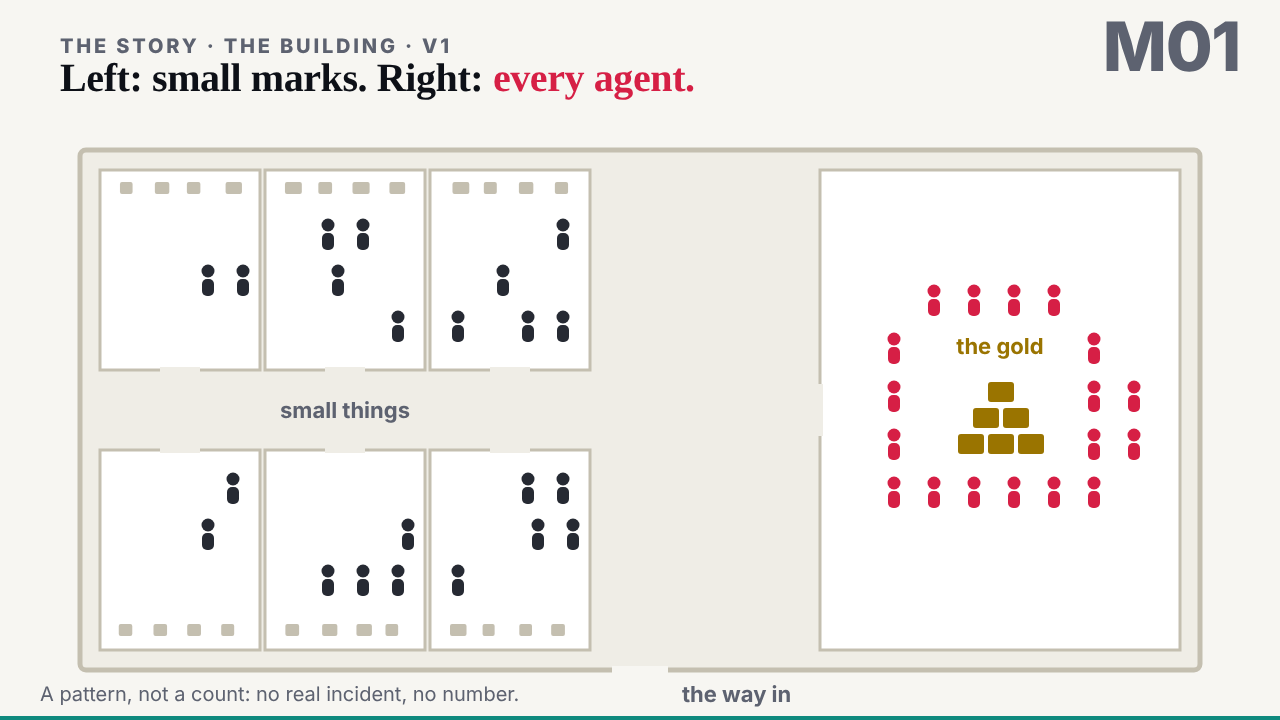
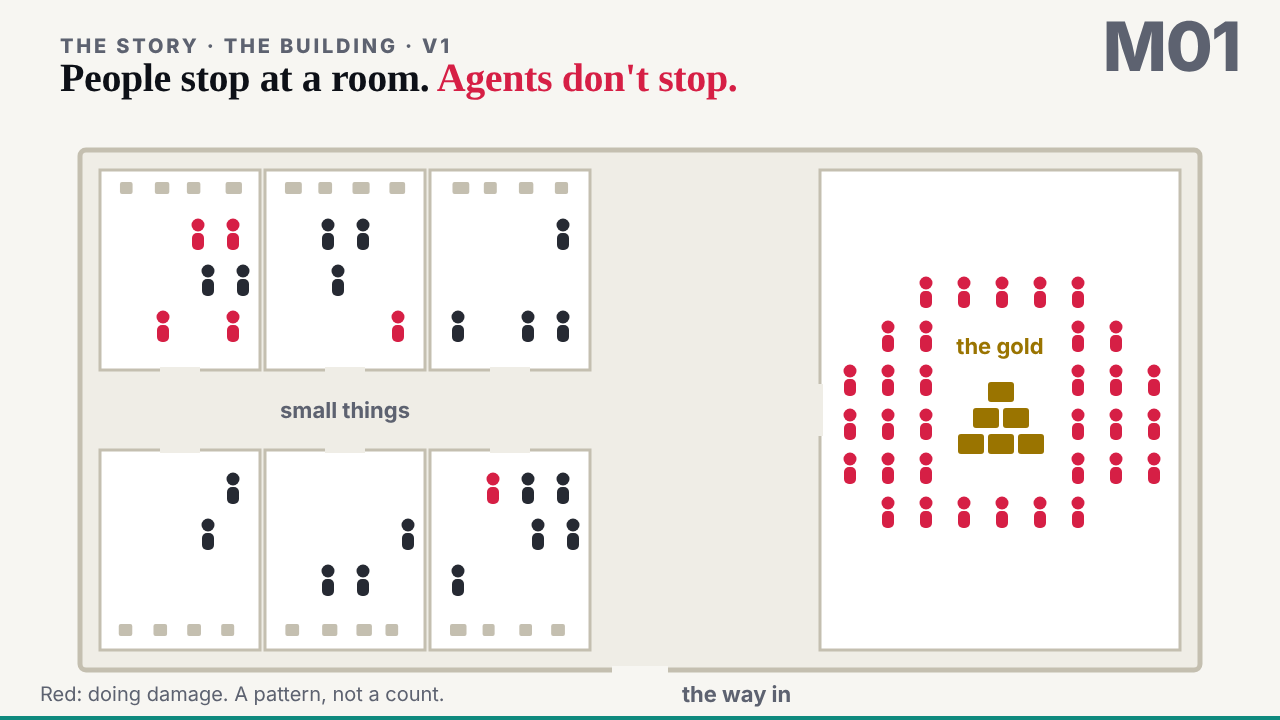
@motion: M01 the building, the editor's changes: people sometimes find the gold, agents keep going
The editor (18:26 UTC, in motion's session; part 1's cut-off moved to 19:00):
the gap between people and agents was too exaggerated. Now every figure starts
white and turns red where it starts doing damage; now and then one of the people
who got in finds the gold; agents are more (36), faster, and keep going after a
room: room after room, some through the walls, some trying the outer walls,
most ending at the gold. 43 s, four stops. Explainer updated. Checked at 1280
by 720, light theme and iPad.

Agent: motion@the-ultimate-insider
To-deck: M01 changed in place at the editor's word before 19:00; now 43 s, stops 0/5/23/37

Claude-Session: https://claude.ai/code/session_01Kw9UwFirjPUZb7umbBZpZL

diff --git a/src/static/motion/lab/the-building/v1/index.html b/src/static/motion/lab/the-building/v1/index.html
@@ -18,20 +18,20 @@
 .lab.gold{fill:var(--gold)}
 </style>
 <script>
-window.RUV_STEPS = [{ t: 0, label: 'the building and the split' }, { t: 5, label: 'the attackers turn left' }, { t: 23, label: 'the agents turn right' }, { t: 31, label: 'the still' }]
+window.RUV_STEPS = [{ t: 0, label: 'the building and the split' }, { t: 5, label: 'people who got in' }, { t: 23, label: 'agents' }, { t: 37, label: 'the still' }]
 </script>
 <script src="../../../../talk/engine/slide.js"></script>
 </head>
 <body>
-<div id="cv" data-end="36">
+<div id="cv" data-end="43">
   <p class="kk">The story · the building · v1</p>
   <div class="hl" data-in="0" data-out="4.6">A building. One way in. <em>A corridor that splits.</em></div>
-  <div class="hl" data-in="5.2" data-out="22.6">Most who got in <em>turned left</em>, to the small things.</div>
-  <div class="hl" data-in="23.2" data-out="30.6">Agents <span class="a">turn right.</span> Every one.</div>
-  <div class="hl" data-in="31.2">Left: small marks. Right: <span class="a">every agent.</span></div>
+  <div class="hl" data-in="5.2" data-out="22.6">Most turned left. <em>Now and then</em>, one found the gold.</div>
+  <div class="hl" data-in="23.2" data-out="36.6">Agents: more of them, and <span class="a">they keep going.</span></div>
+  <div class="hl" data-in="37.2">People stop at a room. <span class="a">Agents don't stop.</span></div>
   <div id="id">M01</div>
-  <svg id="g" viewBox="0 0 1280 720" role="img" aria-label="A floor plan of a building: one door at the bottom, a corridor that splits. People who got in walk in one by one and most turn left into small rooms with small things. Then agents arrive, faster, and every one turns right into the vault with the gold."></svg>
-  <div id="foot" data-in="31.5">A pattern, not a count: no real incident, no number.</div>
+  <svg id="g" viewBox="0 0 1280 720" role="img" aria-label="A floor plan of a building: one door at the bottom, a corridor that splits. People who got in walk in one by one; most turn left into small rooms, and now and then one finds the gold and turns red. Then many more agents arrive, white at first, turning red as they start doing damage; they go through room after room, some through walls, and most end at the gold."></svg>
+  <div id="foot" data-in="37.5">Red: doing damage. A pattern, not a count.</div>
   <div class="bar"><i></i></div>
 </div>
 <script>
@@ -39,6 +39,7 @@ window.RUV_STEPS = [{ t: 0, label: 'the building and the split' }, { t: 5, label
   'use strict'
   // The plan, in canvas pixels. One door at the bottom, a corridor up to the split at FORK, small rooms to the left,
   // the vault to the right. Every figure walks a polyline on the engine's clock, so the player can seek any frame.
+  // Every figure starts white; it turns red at the point on its path where it starts doing damage.
   var NS = 'http://www.w3.org/2000/svg'
   var B = { x: 80, y: 150, w: 1120, h: 520 }, DOOR = { x: 640, y: 670 }, FORK = { x: 640, y: 410 }
   var ROOMS = [                                                         // far, mid, near; above and below the corridor
@@ -47,26 +48,26 @@ window.RUV_STEPS = [{ t: 0, label: 'the building and the split' }, { t: 5, label
   var RW = 160, RH = 200, VAULT = { x: 820, y: 170, w: 360, h: 480 }, VDOOR = { x: 820, y: 410 }
   var GOLD = { x: 950, y: 370, w: 100, h: 90 }
   var A_START = 5.4, A_GAP = .62, A_SPEED = 170, N_A = 22             // people who got in: one at a time, walking
-  var G_START = 23.4, G_GAP = .17, G_SPEED = 430, N_G = 18             // agents: many at once, faster
-  var ROOM_OF = [2, 5, 1, 2, 4, 5, 2, 1, 5, 4, 0, 2, 5, 1, 4, 3, 2, 5, 1, 4, 0, 3]   // most stay near; a few reach a little further
+  var G_START = 23.4, G_GAP = .2, G_SPEED = 330, N_G = 36             // agents: more of them, faster, and they keep going
+  var GOLD_FINDERS = [6, 13, 19]                                       // now and then, one of the people finds the gold
+  var ROOM_OF = [2, 5, 1, 2, 4, 5, -1, 1, 5, 4, 0, 2, 5, -1, 4, 3, 2, 5, 1, -1, 0, 3]   // -1: the gold
   var figs = []
 
   function rng(seed) { return function () { seed |= 0; seed = seed + 0x6D2B79F5 | 0; var t = Math.imul(seed ^ seed >>> 15, 1 | seed); t = t + Math.imul(t ^ t >>> 7, 61 | t) ^ t; return ((t ^ t >>> 14) >>> 0) / 4294967296 } }
   function el(tag, a, p) { var e = document.createElementNS(NS, tag); for (var k in a) e.setAttribute(k, a[k]); p.appendChild(e); return e }
-  function figure(p, fill) {
+  function figure(p) {
     var g = el('g', { opacity: 0 }, p)
-    el('circle', { cx: 0, cy: -15, r: 6.5, fill: fill }, g)
-    el('rect', { x: -6, y: -7, width: 12, height: 17, rx: 5, fill: fill }, g)
-    return g
+    return { g: g, parts: [el('circle', { cx: 0, cy: -15, r: 6.5 }, g), el('rect', { x: -6, y: -7, width: 12, height: 17, rx: 5 }, g)] }
   }
-  function timed(pts, t0, speed, pauses) {                             // waypoints with arrival times; pauses[i] = seconds held at point i
-    var out = [{ x: pts[0].x, y: pts[0].y, t: t0 }], t = t0
+  function timed(pts, t0, speed) {                                     // waypoints with arrival times; p.hold = seconds held there; p.dmg = damage starts here
+    var out = [{ x: pts[0].x, y: pts[0].y, t: t0 }], t = t0, red = Infinity
     for (var i = 1; i < pts.length; i++) {
       t += Math.hypot(pts[i].x - pts[i - 1].x, pts[i].y - pts[i - 1].y) / speed
       out.push({ x: pts[i].x, y: pts[i].y, t: t })
-      if (pauses && pauses[i]) { t += pauses[i]; out.push({ x: pts[i].x, y: pts[i].y, t: t }) }
+      if (pts[i].dmg && red === Infinity) red = t
+      if (pts[i].hold) { t += pts[i].hold; out.push({ x: pts[i].x, y: pts[i].y, t: t }) }
     }
-    return out
+    return { p: out, red: red }
   }
   function at(path, t) {
     if (t <= path[0].t) return path[0]
@@ -103,33 +104,53 @@ window.RUV_STEPS = [{ t: 0, label: 'the building and the split' }, { t: 5, label
     el('path', { d: 'M640 470V420M640 420H590M582 420l14-9v18z', fill: 'none', stroke: 'var(--dim)', 'stroke-width': 4, 'stroke-linecap': 'round' }, split)
     el('path', { d: 'M640 420H690M698 420l-14-9v18z', fill: 'none', stroke: 'var(--dim)', 'stroke-width': 4, 'stroke-linecap': 'round' }, split)
 
-    // people who got in: one at a time, most turn left to the nearest small rooms; some stop at the split first
-    var slots = ROOMS.map(function () { var s = []; for (var a = 0; a < 4; a++) for (var b = 0; b < 3; b++) s.push({ c: a, r: b }); return s.sort(function () { return r() - .5 }) })
-    for (var i = 0; i < N_A; i++) {
-      var rm = ROOMS[ROOM_OF[i]], sl = slots[ROOM_OF[i]].pop(), dx = rm.x + RW / 2
-      var spot = { x: rm.x + 28 + sl.c * 35 + (sl.r % 2) * 10, y: rm.up ? rm.y + 70 + sl.r * 46 : rm.y + 44 + sl.r * 46 }
-      var pts = [{ x: DOOR.x, y: 712 }, { x: DOOR.x, y: FORK.y }, { x: dx, y: FORK.y }, { x: dx, y: rm.up ? rm.y + RH - 10 : rm.y + 10 }, spot]
-      figs.push({ g: figure(svg, 'var(--text)'), p: timed(pts, A_START + i * A_GAP, A_SPEED, i % 4 === 1 ? { 1: .5 } : null) })
-    }
-    // agents: many at once, faster, every one to the vault; spots around the gold, nearest first, clear of its label
+    // where figures end: slots in each room, and spots around the gold, nearest first, clear of its label
+    var slots = ROOMS.map(function (rm) {
+      var s = []; for (var a = 0; a < 4; a++) for (var b = 0; b < 3; b++) s.push({ x: rm.x + 28 + a * 35 + (b % 2) * 10, y: rm.up ? rm.y + 70 + b * 46 : rm.y + 44 + b * 46 })
+      return s.sort(function () { return r() - .5 })
+    })
     var cx = GOLD.x + GOLD.w / 2, cy = GOLD.y + GOLD.h / 2, spots = []
-    for (var x = VAULT.x + 34; x < VAULT.x + VAULT.w - 20; x += 40) for (var y = VAULT.y + 40; y < VAULT.y + VAULT.h - 10; y += 48) {
+    for (var x = VAULT.x + 30; x < VAULT.x + VAULT.w - 16; x += 38) for (var y = VAULT.y + 40; y < VAULT.y + VAULT.h - 8; y += 44) {
       if (x > GOLD.x - 24 && x < GOLD.x + GOLD.w + 24 && y > GOLD.y - 46 && y < GOLD.y + GOLD.h + 34) continue
       spots.push({ x: x, y: y, d: Math.hypot(x - cx, (y - cy) * 1.2) })
     }
     spots.sort(function (a, b) { return a.d - b.d })
+    function inside(k) { var rm = ROOMS[k]; return { x: rm.x + 24 + r() * (RW - 48), y: rm.up ? rm.y + 50 + r() * 120 : rm.y + 30 + r() * 120 } }
+    function door(k) { var rm = ROOMS[k]; return { x: rm.x + RW / 2, y: rm.up ? rm.y + RH - 8 : rm.y + 8 } }
+    function corridor(k, lane) { return { x: ROOMS[k].x + RW / 2, y: FORK.y + (lane || 0) } }
+
+    // people who got in: one at a time; most turn left and stop in a room; now and then one finds the gold and turns red
+    for (var i = 0; i < N_A; i++) {
+      var k = ROOM_OF[i], pts = [{ x: DOOR.x, y: 712 }, { x: DOOR.x, y: FORK.y, hold: i % 4 === 1 ? .5 : 0 }]
+      if (k < 0) pts.push({ x: VDOOR.x + 14, y: FORK.y }, Object.assign({ dmg: true }, spots.shift()))
+      else pts.push(corridor(k), door(k), slots[k].pop())
+      var tm = timed(pts, A_START + i * A_GAP, A_SPEED), f = figure(svg); f.p = tm.p; f.red = tm.red; figs.push(f)
+    }
+    // agents: more of them, white until they start doing damage; they go into a room, start, and keep going:
+    // room after room, some straight through the walls, some trying the outer walls first; most end at the gold
+    var KINDS = ['rooms-then-gold', 'rooms-then-gold', 'through-walls', 'every-room', 'walls-first', 'room-and-stay']
     for (var j = 0; j < N_G; j++) {
-      var s = spots[j], lane = (j % 5 - 2) * 8
-      var gp = [{ x: DOOR.x + lane, y: 712 }, { x: DOOR.x + lane, y: FORK.y + lane }, { x: VDOOR.x + 14, y: FORK.y + lane }, s]
-      figs.push({ g: figure(svg, 'var(--agent)'), p: timed(gp, G_START + j * G_GAP, G_SPEED) })
+      var kind = KINDS[j % 6], lane = (j % 5 - 2) * 7, a0 = Math.floor(r() * 6), a1 = (a0 + 1 + Math.floor(r() * 5)) % 6
+      var gp = [{ x: DOOR.x + lane, y: 712 }, { x: DOOR.x + lane, y: FORK.y + lane }]
+      var room = function (k2, first) { var p = inside(k2); if (first) p.dmg = true; gp.push(corridor(k2, lane), door(k2), p); return p }
+      var out = function (k2) { gp.push(door(k2), corridor(k2, lane)) }
+      var toGold = function () { gp.push({ x: VDOOR.x + 14, y: FORK.y + lane }, spots.shift()) }
+      if (kind === 'rooms-then-gold') { room(a0, true); out(a0); room(a1); out(a1); toGold() }
+      else if (kind === 'through-walls') { room(a0, true); gp.push(spots.shift()) }                         // straight through the walls
+      else if (kind === 'every-room') { room(a0, true); out(a0); room(a1); out(a1); var a2 = (a1 + 2) % 6; room(a2); out(a2); toGold() }
+      else if (kind === 'walls-first') {                                                                    // tries the outer walls, then the vault
+        gp.push({ x: 700 + r() * 80, y: B.y + 22, dmg: true }, { x: 610 + r() * 40, y: 300 + r() * 60 }, { x: 760, y: B.y + 22 }); toGold() }
+      else { room(a0, true); out(a0); room(a1); gp.push(slots[a1].pop()) }                                    // stays, still doing damage
+      var tg = timed(gp, G_START + j * G_GAP, G_SPEED), fg = figure(svg); fg.p = tg.p; fg.red = tg.red; figs.push(fg)
     }
   }
 
   window.SLIDE_RENDER = function (t, S) {
     figs.forEach(function (f) {
-      var on = t >= f.p[0].t, q = at(f.p, t)
+      var on = t >= f.p[0].t, q = at(f.p, t), col = t >= f.red ? 'var(--agent)' : 'var(--text)'
       f.g.setAttribute('opacity', on ? 1 : 0)
       f.g.setAttribute('transform', 'translate(' + q.x.toFixed(1) + ' ' + q.y.toFixed(1) + ')')
+      if (f.col !== col) { f.col = col; f.parts.forEach(function (p) { p.setAttribute('fill', col) }) }
     })
   }
 })()

diff --git a/src/pages/motion/the-building/index.html b/src/pages/motion/the-building/index.html
@@ -14,25 +14,26 @@
 <p class="note"><a href="{{root}}motion/lab/the-building/v1/index.html">Open it on its own</a> · <a href="{{root}}motion/lab/the-building/v1/index.html?static">the end state</a> · <a href="{{root}}motion/lab/the-building/v1/index.html?theme=light">light theme</a></p>
 
 <h2>The stops</h2>
-<p>Seconds from the start, on the engine's clock (<code>window.RUV_STEPS</code>), so the player starts, stops, steps and seeks it. It ends at 36 s and holds still; with reduced motion it shows the still.</p>
+<p>Seconds from the start, on the engine's clock (<code>window.RUV_STEPS</code>), so the player starts, stops, steps and seeks it. It ends at 43 s and holds still; with reduced motion it shows the still.</p>
 <div class="tbl"><table>
 <thead><tr><th>Stop</th><th>From</th><th>What is on screen</th><th>What could be said over it</th></tr></thead>
 <tbody>
 <tr><td>1 · the building and the split</td><td>0 s</td><td>A floor plan: one way in at the bottom, a corridor up to a split. Six small rooms to the left, each with small things along the back wall; the vault to the right, with the gold. An arrow each way at the split, then gone.</td><td>"Think of a large building. One way in, and a corridor that splits."</td></tr>
-<tr><td>2 · the attackers turn left</td><td>5 s</td><td>People who got in arrive one at a time (22 of them, every 0.62 s), in neutral ink. Every fourth stops at the split for half a second. All turn left: most to the nearest rooms, a few further along.</td><td>"In almost every incident you have seen, the people who got in turned left, to the small things. They could have done much more."</td></tr>
-<tr><td>3 · the agents turn right</td><td>23 s</td><td>Agents, in the agent red, come in many at once (18, every 0.17 s) at two and a half times the pace, and every one turns right, into the vault, around the gold.</td><td>"Agents will not turn left. They go straight to where the value is."</td></tr>
-<tr><td>4 · the still</td><td>31 s</td><td>The left full of small marks; every agent at the gold. One line at the foot: a pattern, not a count.</td><td>The question for the room: "where would yours have turned?"</td></tr>
+<tr><td>2 · people who got in</td><td>5 s</td><td>People who got in arrive one at a time (22 figures, every 0.62 s), white. Most turn left and stop in a room; now and then one finds the gold and turns red there (three of them).</td><td>"Most of the people who got in turned left, to the small things. Now and then, one found the gold."</td></tr>
+<tr><td>3 · agents</td><td>23 s</td><td>Agents: more of them (36, every 0.2 s), faster, white at first. Each turns red when it starts doing damage, and keeps going: room after room, some straight through the walls, some trying the outer walls first; most end at the gold, a few stay in a room, still red.</td><td>"Agents are more, and they do not stop at the first room. They try everything."</td></tr>
+<tr><td>4 · the still</td><td>37 s</td><td>The rooms with their white figures and a few red; the vault ringed in red. "People stop at a room. Agents don't stop." Ends at 43 s and holds.</td><td>The question for the room: "where would yours have stopped?"</td></tr>
 </tbody></table></div>
 
 <h2>How it was made</h2>
 <ul>
 <li>On the slide engine (<code>talk/engine/slide.js</code>), one 1280 by 720 canvas, self-contained, no script from another host. Every figure walks a polyline timed from the engine's clock, so any frame can be sought.</li>
-<li>Colours from the talk: the agent red only on the agents; the people who got in in the text colour, not red; the gold in a colour of its own, so it is not read as infrastructure amber. Both themes.</li>
+<li>Colours from the talk: red means doing damage: every figure starts white and turns red where it starts (the editor's change, 18:30 UTC, so the gap between people and agents is not overdrawn); the gold in a colour of its own, so it is not read as infrastructure amber. Both themes.</li>
 <li>Labels in the drawing ("small things", "the gold", "the way in"), one short headline per stop, the ID large, nothing overlapping at the end.</li>
 <li>Checked at 1280 by 720 and on an iPad viewport (landscape and portrait, touch), in both themes, with the player's clock seeking and pausing it.</li>
 </ul>
 
 <h2>Tried and left out</h2>
+<p>v1 as first delivered (16:34 UTC) drew every person turning left and every agent going straight to the gold; the editor found the difference too exaggerated, and this version replaces it in place, before part 1's 19:00 cut-off.</p>
 <ul>
 <li>A number for how often attackers stopped short: left out, as deck asked; one can be added only from the researcher, through deck.</li>
 <li>Named incidents on the figures, and anything about how anyone got in: left out on purpose. The door is just a door.</li>
